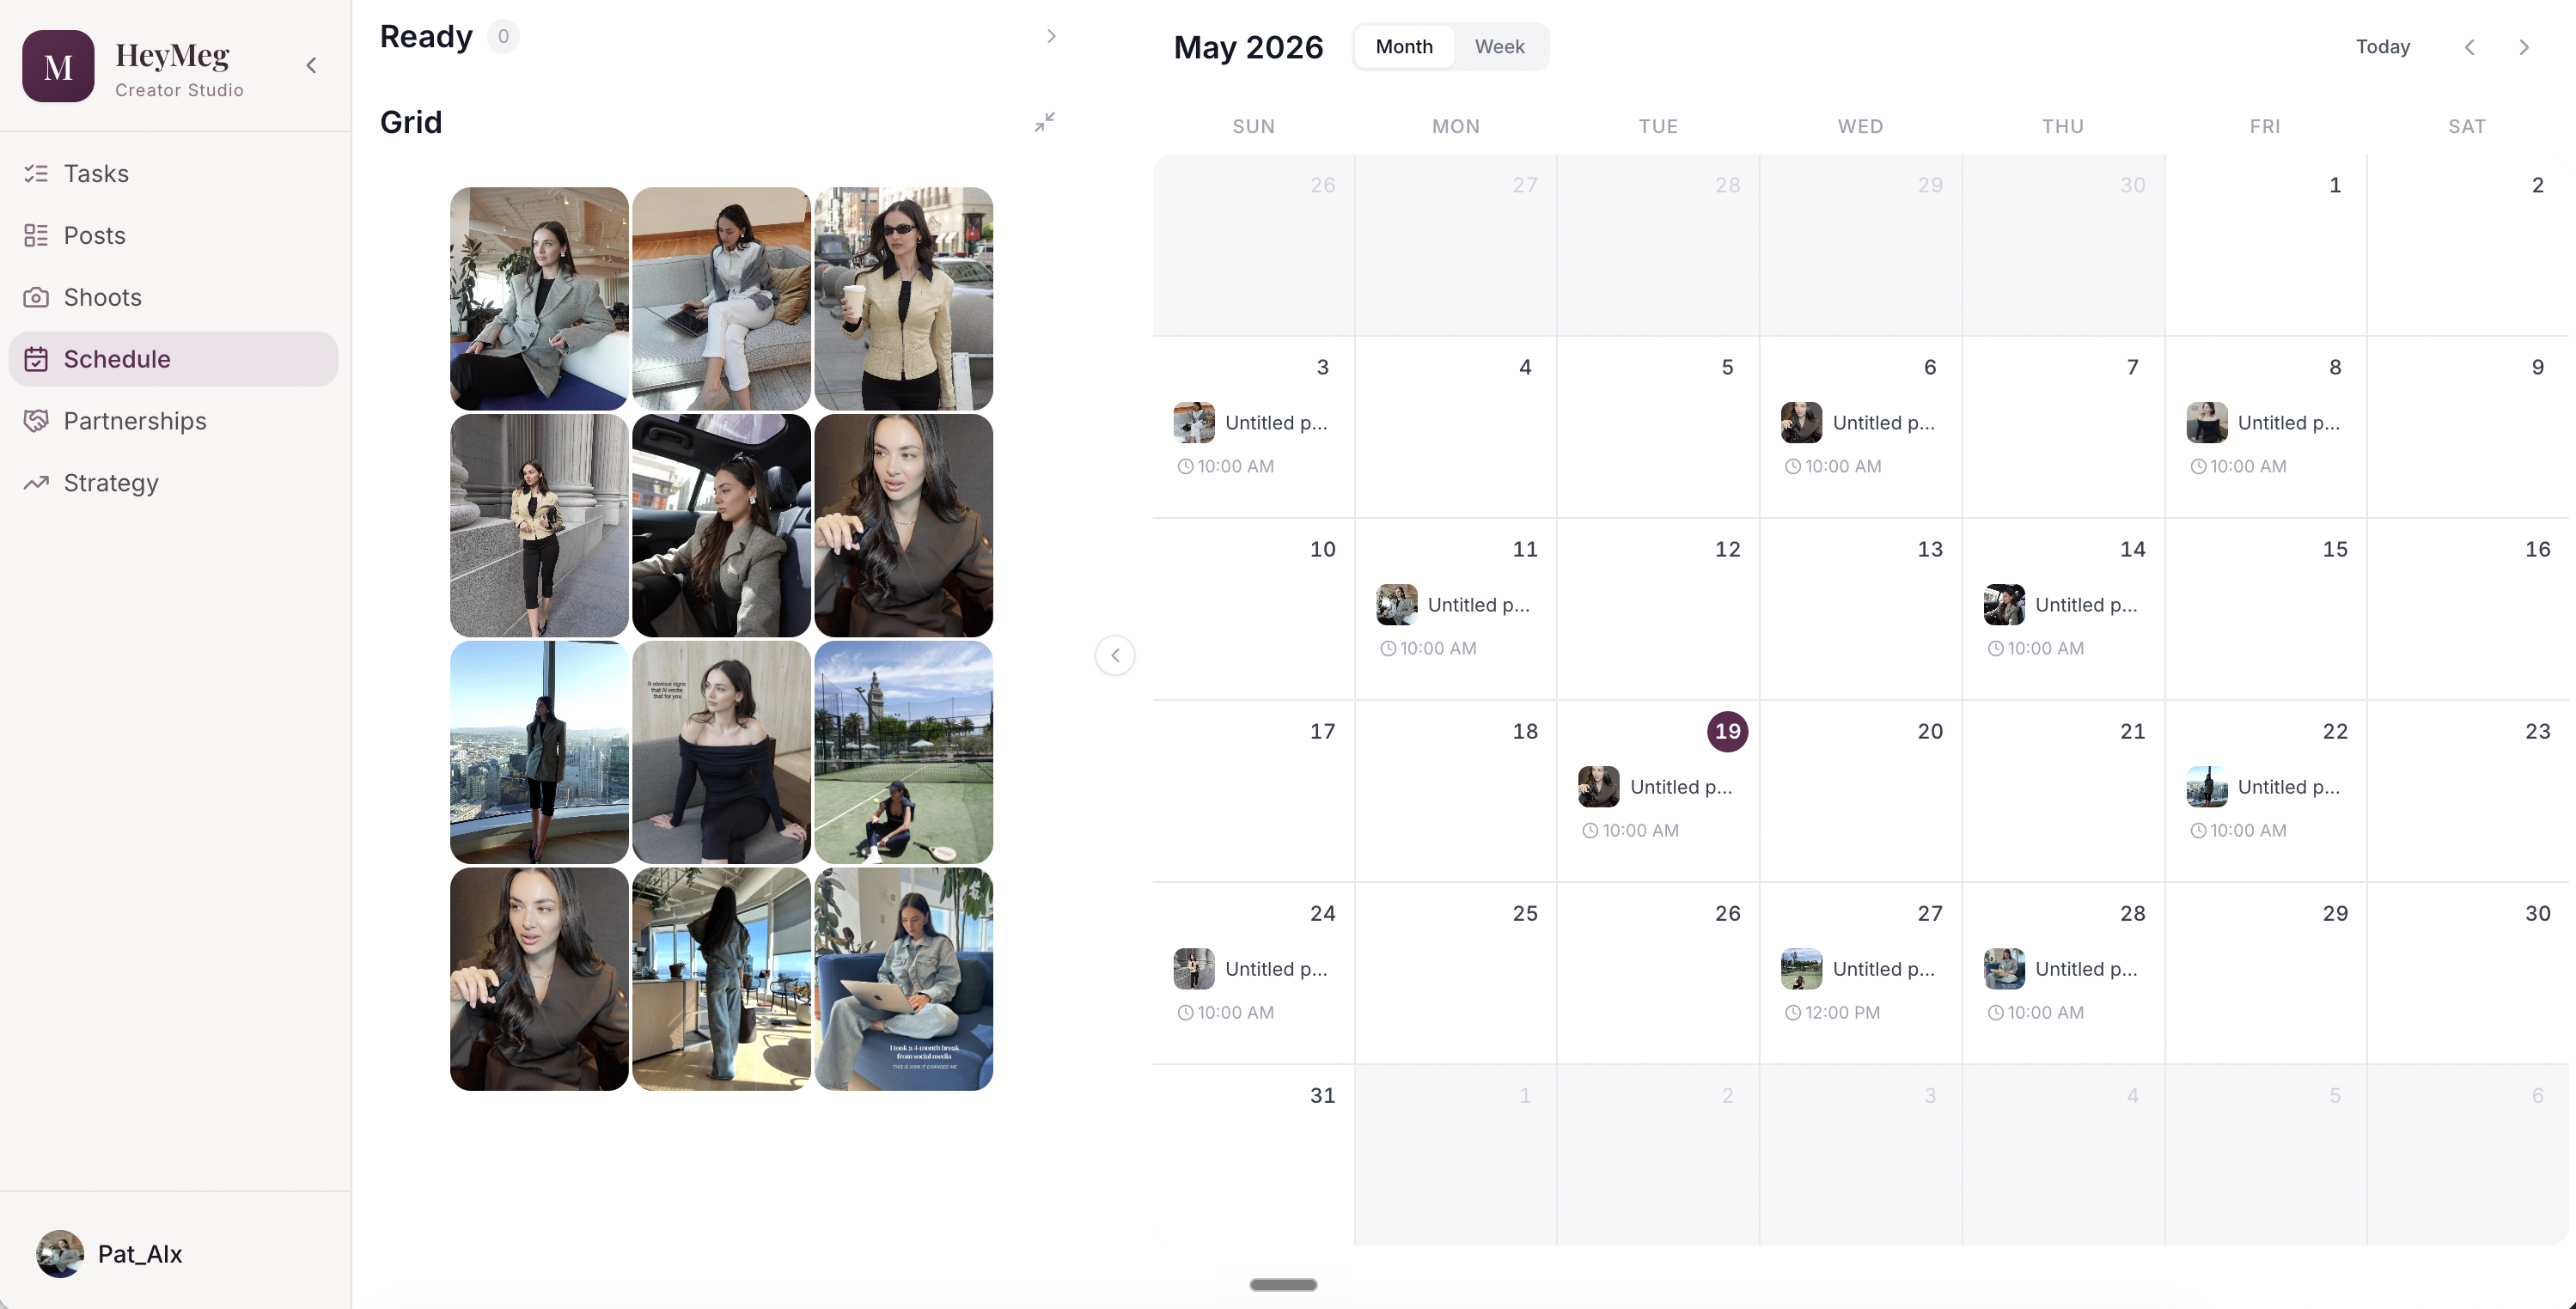
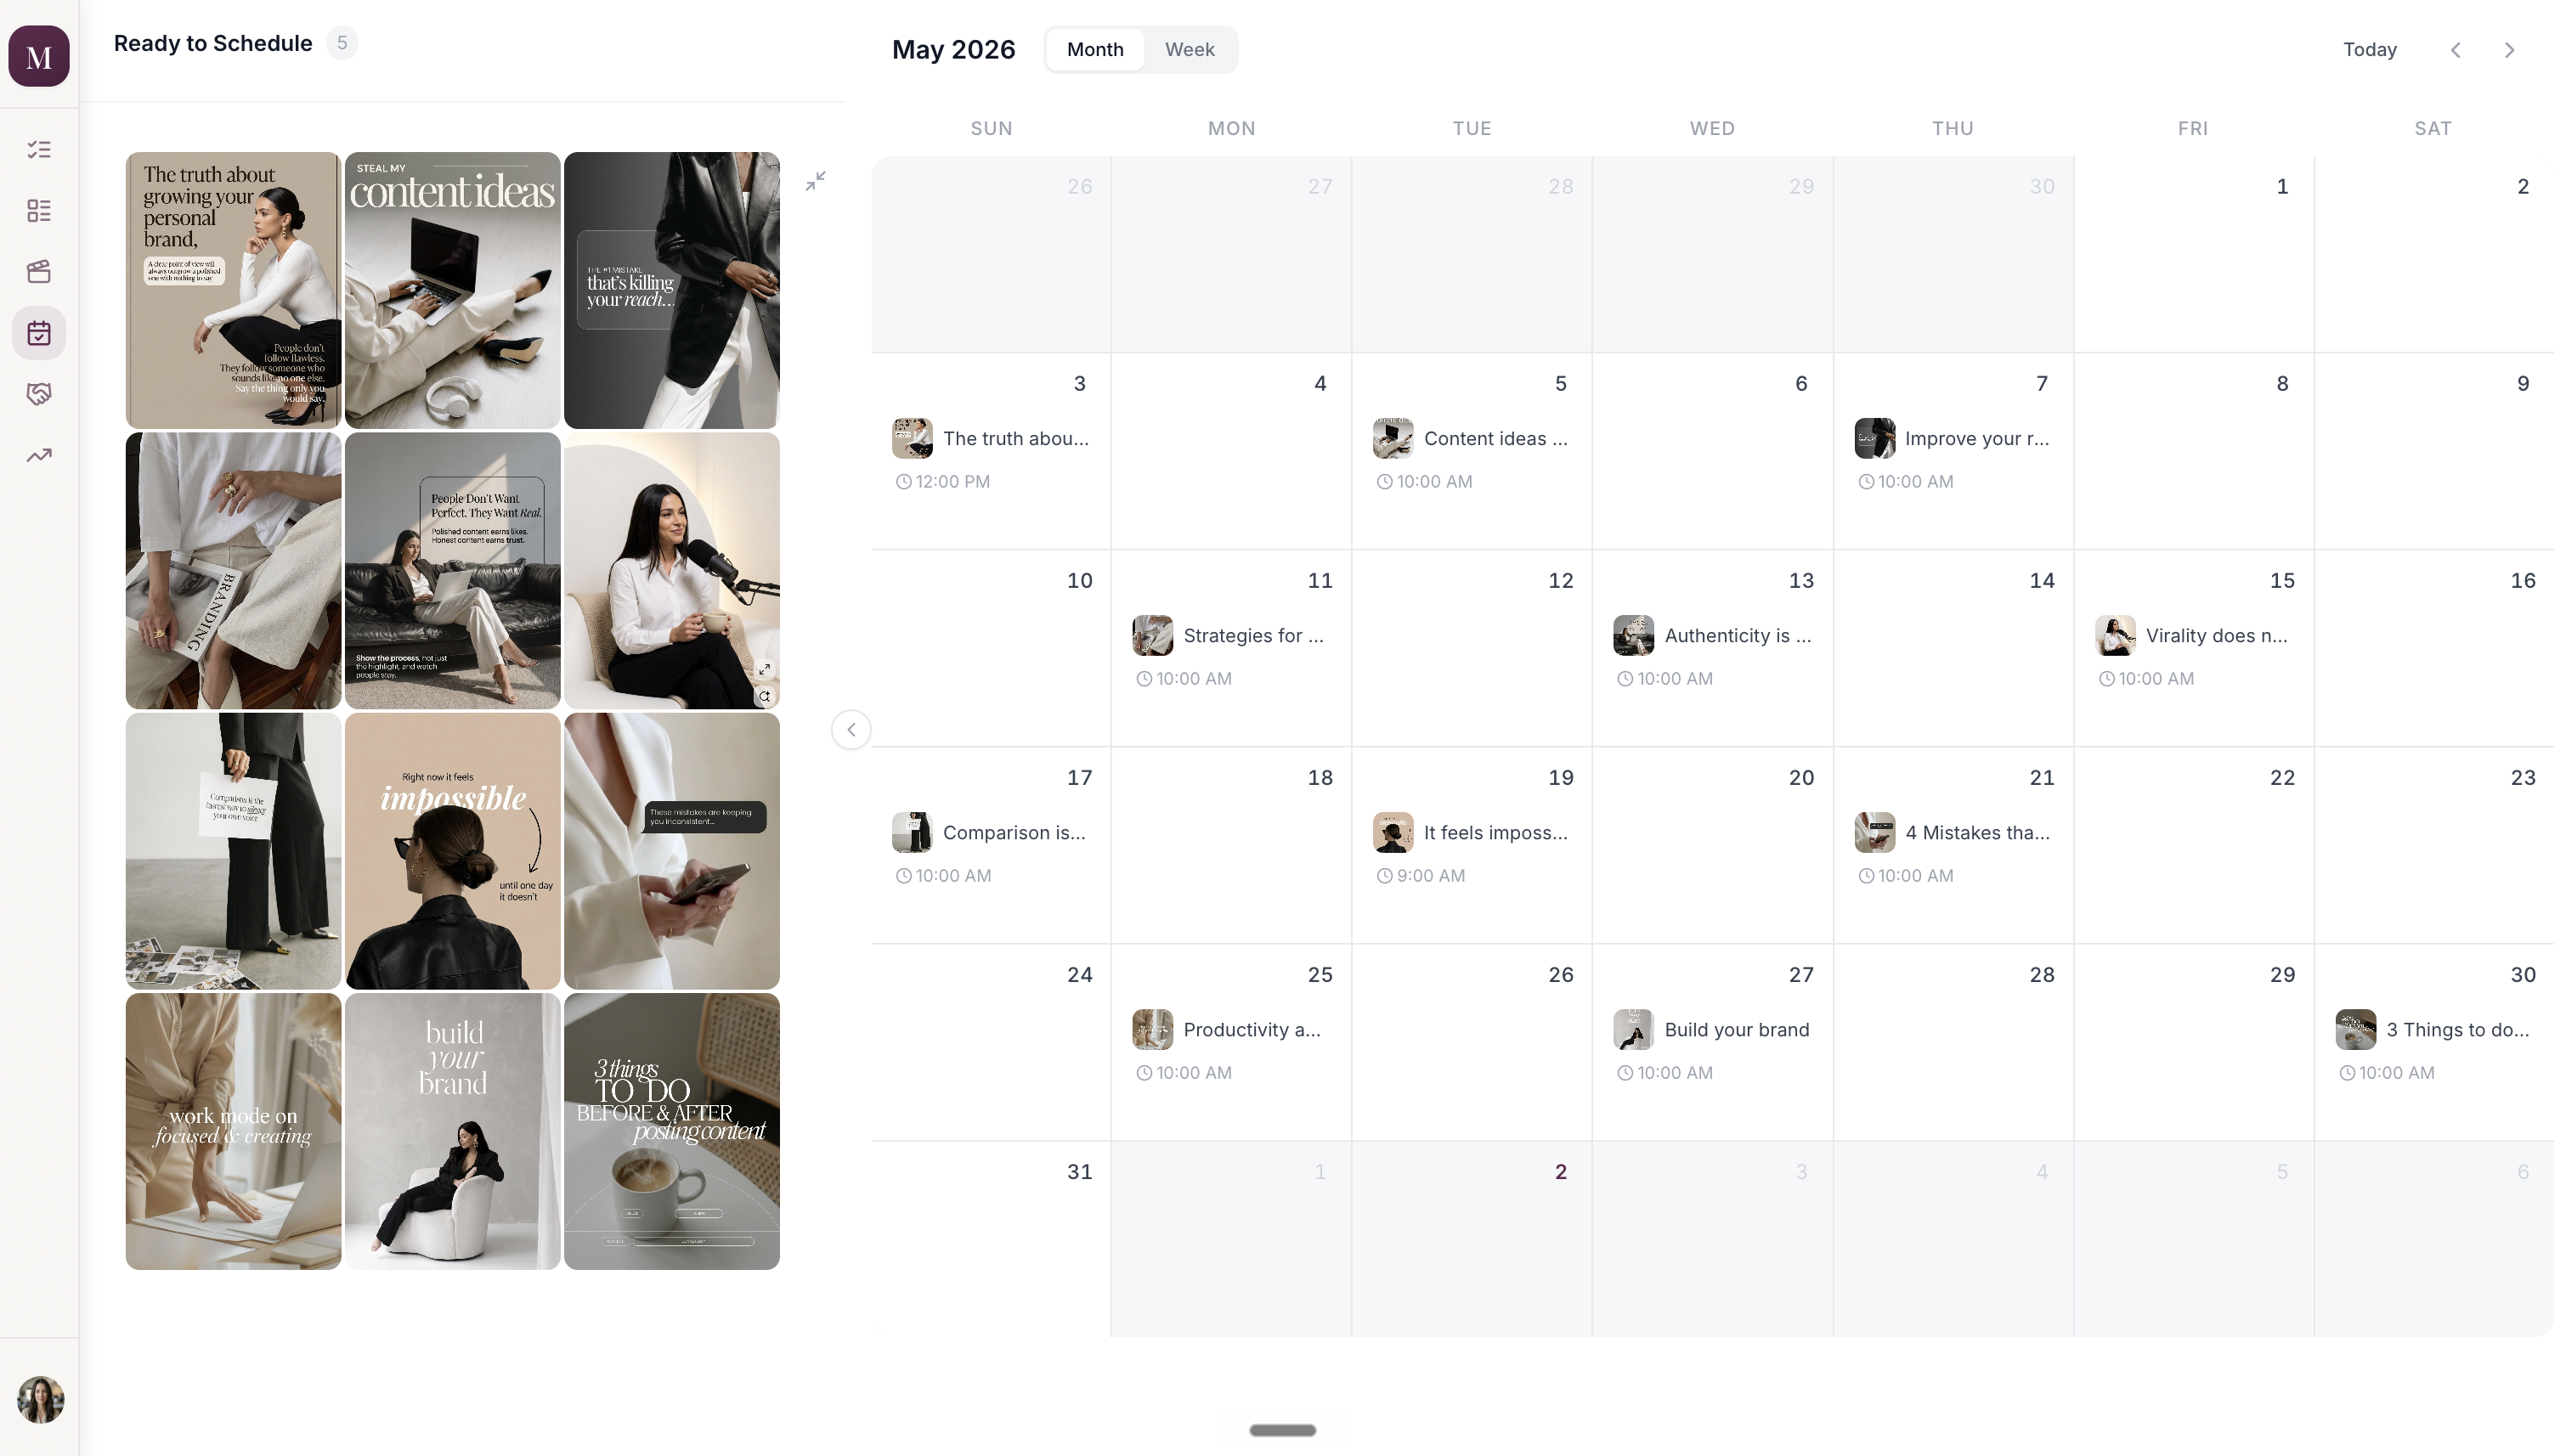
Update landing page hero image, fix sidebar transitions, calendar persist
- Replace hero image with new schedule page screenshot
- Reduce hero image max-width from 1320px to 1100px
- Remove SidebarMenuButton transition to prevent active state loading flash
- Remove transition on active menu items for instant background

diff --git a/src/components/schedule/ScheduleCalendar.tsx b/src/components/schedule/ScheduleCalendar.tsx
@@ -1,4 +1,4 @@
-import React, { useState, useMemo } from 'react';
+import React, { useState, useMemo, useEffect } from 'react';
 import { motion } from 'framer-motion';
 import { ChevronLeft, ChevronRight, ImageIcon, AlertTriangle, Clock } from 'lucide-react';
 import { useDroppable, useDraggable } from '@dnd-kit/core';
@@ -90,10 +90,29 @@ const ScheduleCalendar: React.FC<ScheduleCalendarProps> = ({
   draggingId,
 }) => {
   const today = new Date();
-  const [viewYear, setViewYear] = useState(today.getFullYear());
-  const [viewMonth, setViewMonth] = useState(today.getMonth());
+  const [viewYear, setViewYear] = useState(() => {
+    const saved = sessionStorage.getItem('schedule_viewYear');
+    return saved ? Number(saved) : today.getFullYear();
+  });
+  const [viewMonth, setViewMonth] = useState(() => {
+    const saved = sessionStorage.getItem('schedule_viewMonth');
+    return saved ? Number(saved) : today.getMonth();
+  });
   const [calView, setCalView] = useState<CalendarView>('month');
-  const [weekBase, setWeekBase] = useState(today);
+  const [weekBase, setWeekBase] = useState(() => {
+    const saved = sessionStorage.getItem('schedule_weekBase');
+    return saved ? new Date(saved) : today;
+  });
+
+  // Persist calendar position
+  useEffect(() => {
+    sessionStorage.setItem('schedule_viewYear', String(viewYear));
+    sessionStorage.setItem('schedule_viewMonth', String(viewMonth));
+  }, [viewYear, viewMonth]);
+
+  useEffect(() => {
+    sessionStorage.setItem('schedule_weekBase', weekBase.toISOString());
+  }, [weekBase]);
 
   const monthDays = useMemo(() => getMonthGrid(viewYear, viewMonth), [viewYear, viewMonth]);
   const weekDays = useMemo(() => getWeekDays(weekBase), [weekBase]);

diff --git a/src/pages/LandingPage.tsx b/src/pages/LandingPage.tsx
@@ -58,6 +58,13 @@ const LandingPage = () => {
               {isAuthenticated ? "Go to Dashboard" : "Start 14-Day Free Trial"}
             </Button>
           </div>
+          <div className="mt-12 rounded-xl overflow-hidden shadow-2xl border border-gray-200">
+            <img
+              src="/heymeg-hero.png?v=2"
+              alt="HeyMeg app screenshot"
+              className="w-full"
+            />
+          </div>
         </section>
 
         {/* Features Section */}

diff --git a/public/landing.html b/public/landing.html
@@ -362,7 +362,7 @@
 
     .dashboard-preview-wrapper {
       position: relative;
-      max-width: 1320px;
+      max-width: 1100px;
       width: 100%;
       padding: 0 20px;
       perspective: none;